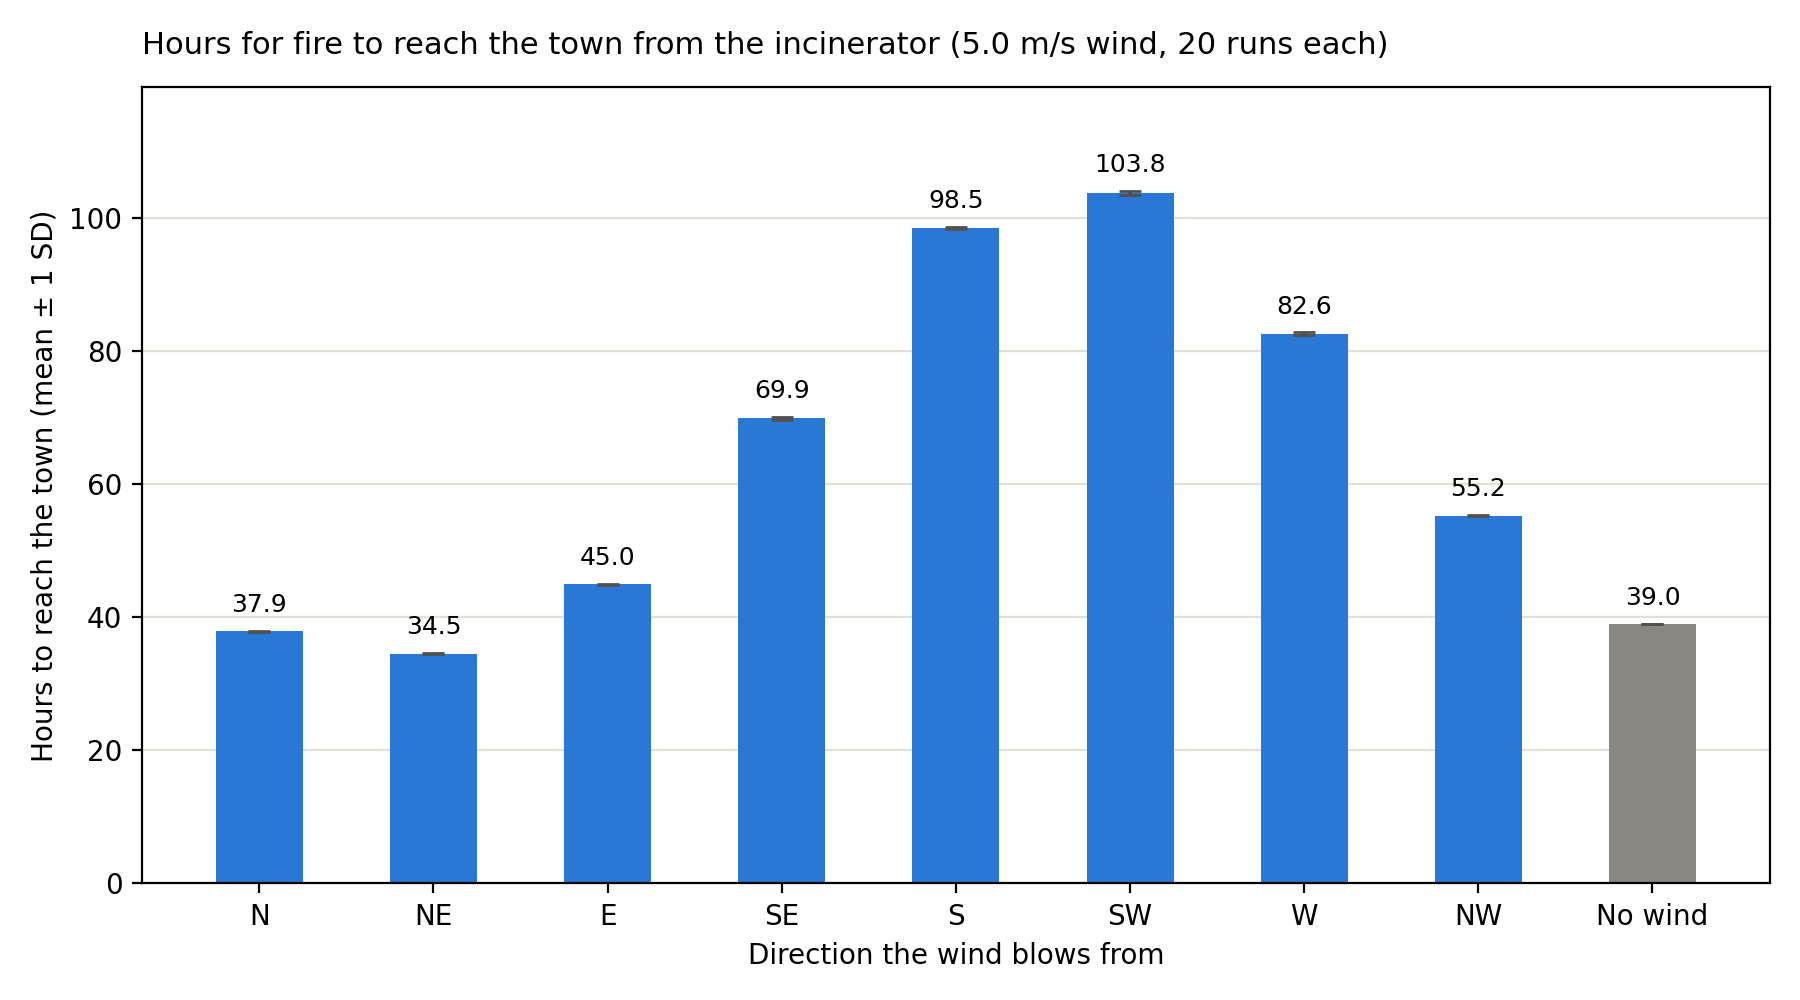
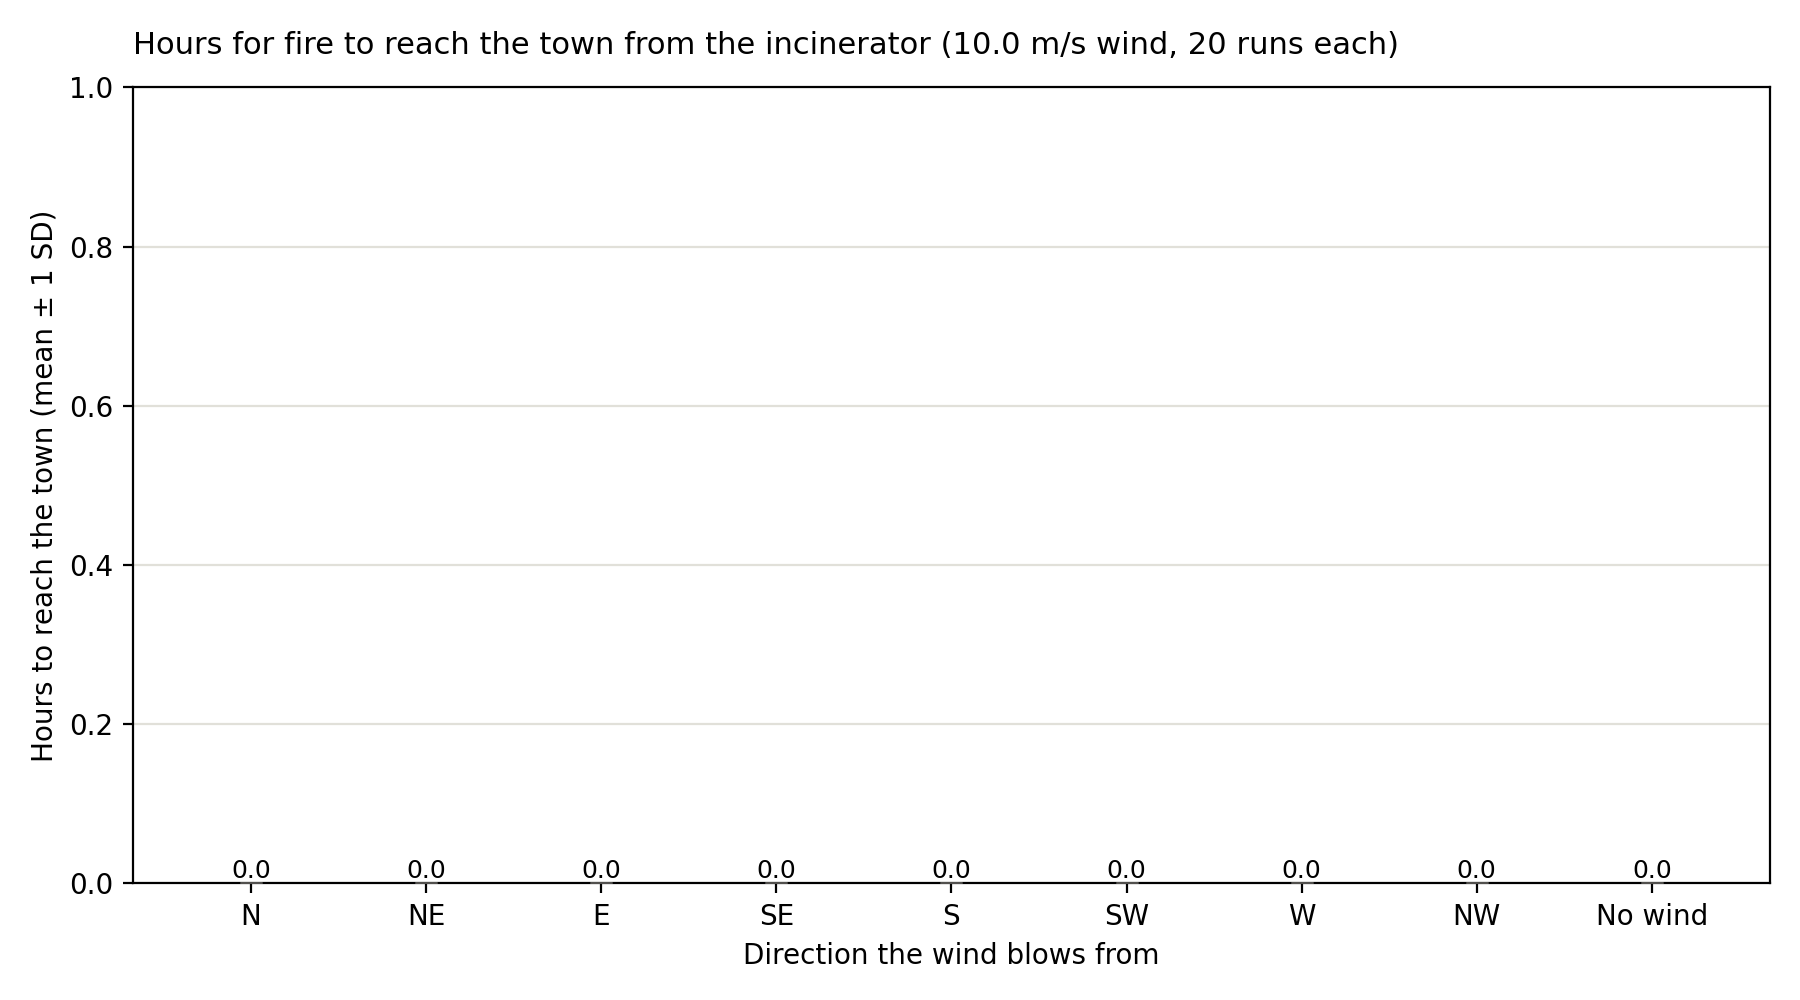
add archived results and modify tests y axis|

diff --git a/ca_descriptions/forest_fire_model.py b/ca_descriptions/forest_fire_model.py
@@ -94,9 +94,6 @@ class Context:
     neighbour_spread_time_hours: np.ndarray
     # The timestep at which water should deploy
     water_deploy_timestep: int
-    water_deployment_timestep_duration: int
-    water_deployed_region_prev_burnt_states: Optional[np.ndarray] = None
-
 
     # --- Default arguments ---
     #  (Context configuration)
@@ -140,9 +137,7 @@ class Context:
     min_burn_time_random_multiplier = 0.8
 
     # Hour the 12.5km^2 of water is dropped
-    water_deploy_hours = 2 # put to -1 if you want to disable
-    water_deployment_duration_in_hours = 2
-    # Water deployment rectangle veritices (in this problem must cover 12.5km^2, 200 cells total)
+    water_deploy_hours = 1.5 # put to -1 if you want to disable
     # Try 20 wide (0.25 x 20) = 5km
     # Try 10 tall (0.25 s 10) = 2.5km
     # 10 tall
@@ -197,7 +192,6 @@ class Context:
 
         # Get the timestep at which water should be deployed
         water_deploy_timestep = ceil(cls.water_deploy_hours / cls.timestep_hours)
-        water_deployment_timestep_duration = ceil(cls.water_deployment_duration_in_hours / cls.timestep_hours)
         
         return cls(
             terrain_grid=terrain_grid,
@@ -206,7 +200,6 @@ class Context:
             ignition_allowed_after_hours=ignition_allowed_after_hours,
             neighbour_spread_time_hours=neighbour_spread_time_hours,
             water_deploy_timestep=water_deploy_timestep,
-            water_deployment_timestep_duration=water_deployment_timestep_duration
         )
 
     @classmethod
@@ -492,9 +485,6 @@ def transition_function(
     if ctx.step == ctx.water_deploy_timestep:
         grid = deploy_water(ctx, grid)
 
-    if ctx.step == ctx.water_deploy_timestep + ctx.water_deployment_timestep_duration:
-        grid = remove_deployed_water(ctx, grid)
-
     # --- Check if fire spread to the town ---
 
     town_lit = np.any((grid == BURNING_STATE) & (ctx.terrain_grid == TOWN_STATE))
@@ -507,28 +497,10 @@ def deploy_water(ctx: Context, grid: np.ndarray) -> np.ndarray:
     '''Function to return the grid with 12.5km^2 of the cells replaced with the lake state 7
        to simulate water being dropped'''
 
-    region = ctx.water_deployment_rectangular_region
-    ctx.water_deployed_region_prev_burnt_states = grid[region] == BURNT_STATE
-    ctx.ignition_allowed_after_hours[region] = (
-        ctx.step + ctx.water_deployment_timestep_duration
-    ) * ctx.timestep_hours
-    grid[region] = LAKE_STATE
+    grid[ctx.water_deployment_rectangular_region] = LAKE_STATE
 
     return grid
 
-def remove_deployed_water(ctx: Context, grid: np.ndarray) -> np.ndarray:
-    '''Function to return the grid with 12.5km^2 of the cells that was assigned to the 
-       lake state to simulate water being dropped, removed. It preserves previous burnt status. '''
-
-    water_dropped_region = ctx.water_deployment_rectangular_region
-    previously_burnt = ctx.water_deployed_region_prev_burnt_states
-    grid[water_dropped_region] = ctx.terrain_grid[water_dropped_region]
-
-    initial_fire_sources = ctx.terrain_grid[water_dropped_region] == BURNING_STATE
-    grid[water_dropped_region][initial_fire_sources] = BURNT_STATE
-    grid[water_dropped_region][previously_burnt] = BURNT_STATE
-
-    return grid
 
 def main():
     """ Main function that sets up, runs and saves CA"""

diff --git a/experiments/wind_directions.py b/experiments/wind_directions.py
@@ -22,8 +22,9 @@ sys.path.append(os.path.join(os.path.dirname(EXPERIMENTS_DIR), 'ca_descriptions'
 import forest_fire_model as ffm
 from capyle.ca import Grid2D
 
+BURNING_STATE = 0
 
-WIND_SPEED = 5.0  # m/s
+WIND_SPEED = 10.0  # m/s
 
 RUNS_PER_DIRECTION = 20  # same seeds for every direction
 
@@ -62,7 +63,7 @@ def hours_to_reach_town(fire_start, wind_deg, wind_ms, run_seed):
 
     # Step manually, grid.run() would open a progress window
     max_steps = int(MAX_HOURS / ctx.timestep_hours)
-    while ctx.town_arrival_step is None and ctx.step < max_steps:
+    while ctx.town_arrival_step is None and ctx.step < max_steps and np.count_nonzero(grid == BURNING_STATE) > 0:
         grid.step()
 
     if ctx.town_arrival_step is None:
@@ -106,7 +107,8 @@ def save_chart(path, start_name, results):
 
     # leave room above the bars for the labels
     top = max(m + s for m, s in zip(means, stds))
-    ax.set_ylim(0, top * 1.15)
+    y_max = max(top*1.15, 1.0)
+    ax.set_ylim(0, y_max)
     for bar, mean, std in zip(bars, means, stds):
         ax.text(bar.get_x() + bar.get_width() / 2, mean + std + top * 0.02, '{:.1f}'.format(mean),
                 ha='center', va='bottom', fontsize=9)
